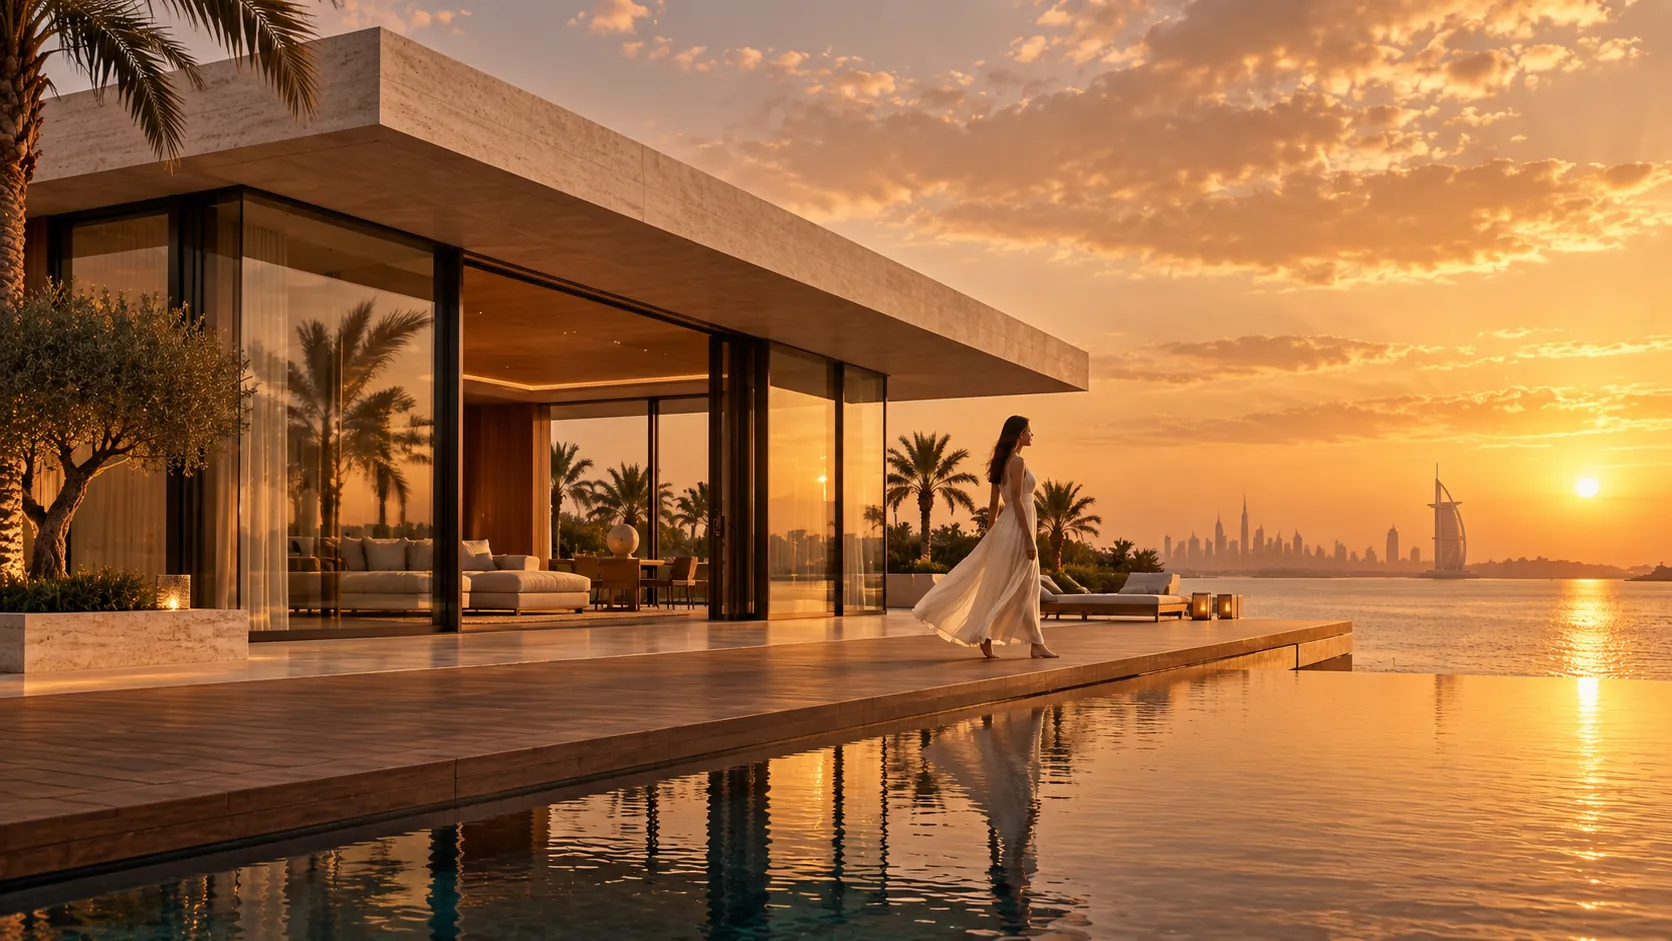
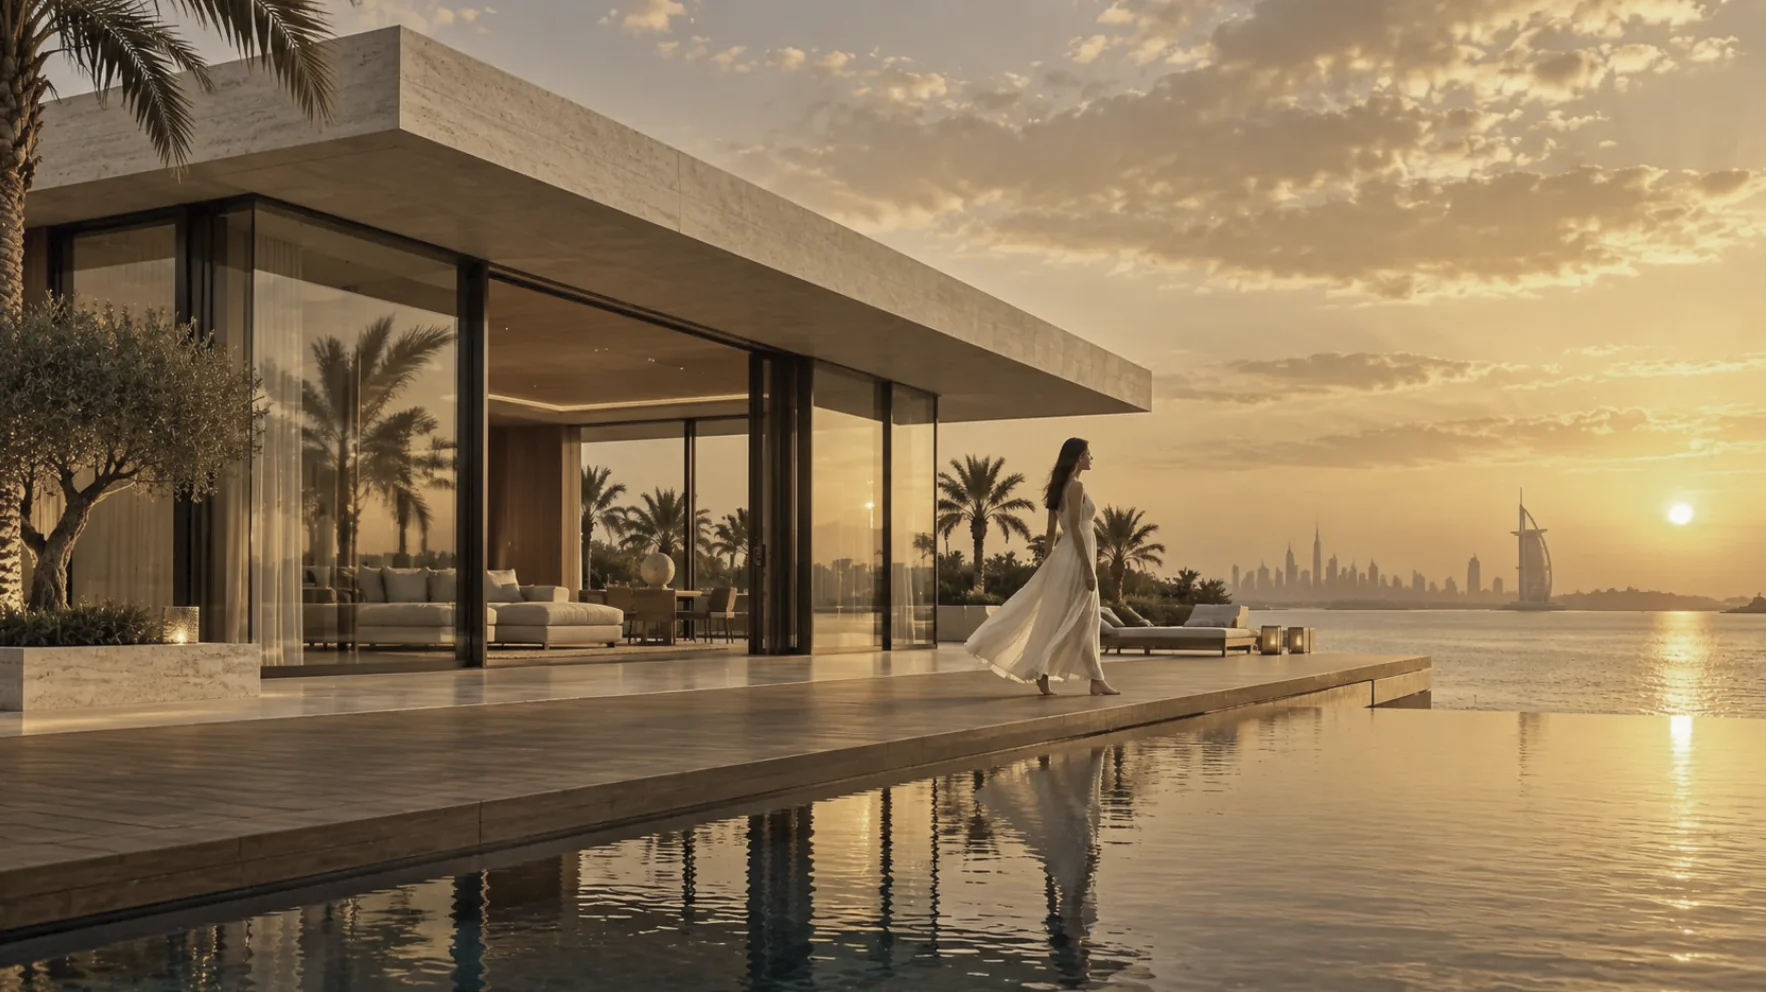
Buy: new photo in the brief section
Claude-Session: https://claude.ai/code/session_01UcwUMuJ92NuHo1A5PkzTj4

diff --git a/buy.html b/buy.html
@@ -307,7 +307,7 @@
 
 <!-- ===================================================== Submit your brief -->
 <section class="section is-light brief-pick" id="brief">
-  <div class="brief-pick__bg" aria-hidden="true"><img src="assets/img/brief-sunset-villa.webp" alt="" loading="lazy" width="1672" height="941"></div>
+  <div class="brief-pick__bg" aria-hidden="true"><img src="assets/img/brief-sunset-villa.webp?v=2" alt="" loading="lazy" width="1766" height="992"></div>
   <!-- Developers line along the top edge of the photo (slides the opposite way to the hero line) -->
   <div class="devs-strip devs-strip--brief" aria-label="More developers we work with">
   <div class="ag-marquee ag-marquee--rtl"><ul class="ag-marquee__track"><li>Binghatti</li><li>Omniyat</li><li>Select Group</li><li>Azizi</li><li>Danube</li><li>Imtiaz</li><li>Samana</li><li>Emaar</li><li>DAMAC</li><li>Sobha</li><li>Nakheel</li><li>Aldar</li><li>Meraas</li><li>Ellington</li><li aria-hidden="true">Binghatti</li><li aria-hidden="true">Omniyat</li><li aria-hidden="true">Select Group</li><li aria-hidden="true">Azizi</li><li aria-hidden="true">Danube</li><li aria-hidden="true">Imtiaz</li><li aria-hidden="true">Samana</li><li aria-hidden="true">Emaar</li><li aria-hidden="true">DAMAC</li><li aria-hidden="true">Sobha</li><li aria-hidden="true">Nakheel</li><li aria-hidden="true">Aldar</li><li aria-hidden="true">Meraas</li><li aria-hidden="true">Ellington</li><li aria-hidden="true">Binghatti</li><li aria-hidden="true">Omniyat</li><li aria-hidden="true">Select Group</li><li aria-hidden="true">Azizi</li><li aria-hidden="true">Danube</li><li aria-hidden="true">Imtiaz</li><li aria-hidden="true">Samana</li><li aria-hidden="true">Emaar</li><li aria-hidden="true">DAMAC</li><li aria-hidden="true">Sobha</li><li aria-hidden="true">Nakheel</li><li aria-hidden="true">Aldar</li><li aria-hidden="true">Meraas</li><li aria-hidden="true">Ellington</li><li aria-hidden="true">Binghatti</li><li aria-hidden="true">Omniyat</li><li aria-hidden="true">Select Group</li><li aria-hidden="true">Azizi</li><li aria-hidden="true">Danube</li><li aria-hidden="true">Imtiaz</li><li aria-hidden="true">Samana</li><li aria-hidden="true">Emaar</li><li aria-hidden="true">DAMAC</li><li aria-hidden="true">Sobha</li><li aria-hidden="true">Nakheel</li><li aria-hidden="true">Aldar</li><li aria-hidden="true">Meraas</li><li aria-hidden="true">Ellington</li></ul></div>

diff --git a/sw.js b/sw.js
@@ -4,7 +4,7 @@
    two after each deploy, which has already broken this site twice. Everything
    is network-first; the cache exists solely so an offline visit still renders.
    Bump CACHE to retire old stores. */
-const CACHE = 'obelum-v332';
+const CACHE = 'obelum-v333';
 
 self.addEventListener('install', (e) => {
   // Take over immediately rather than waiting for every old tab to close.
